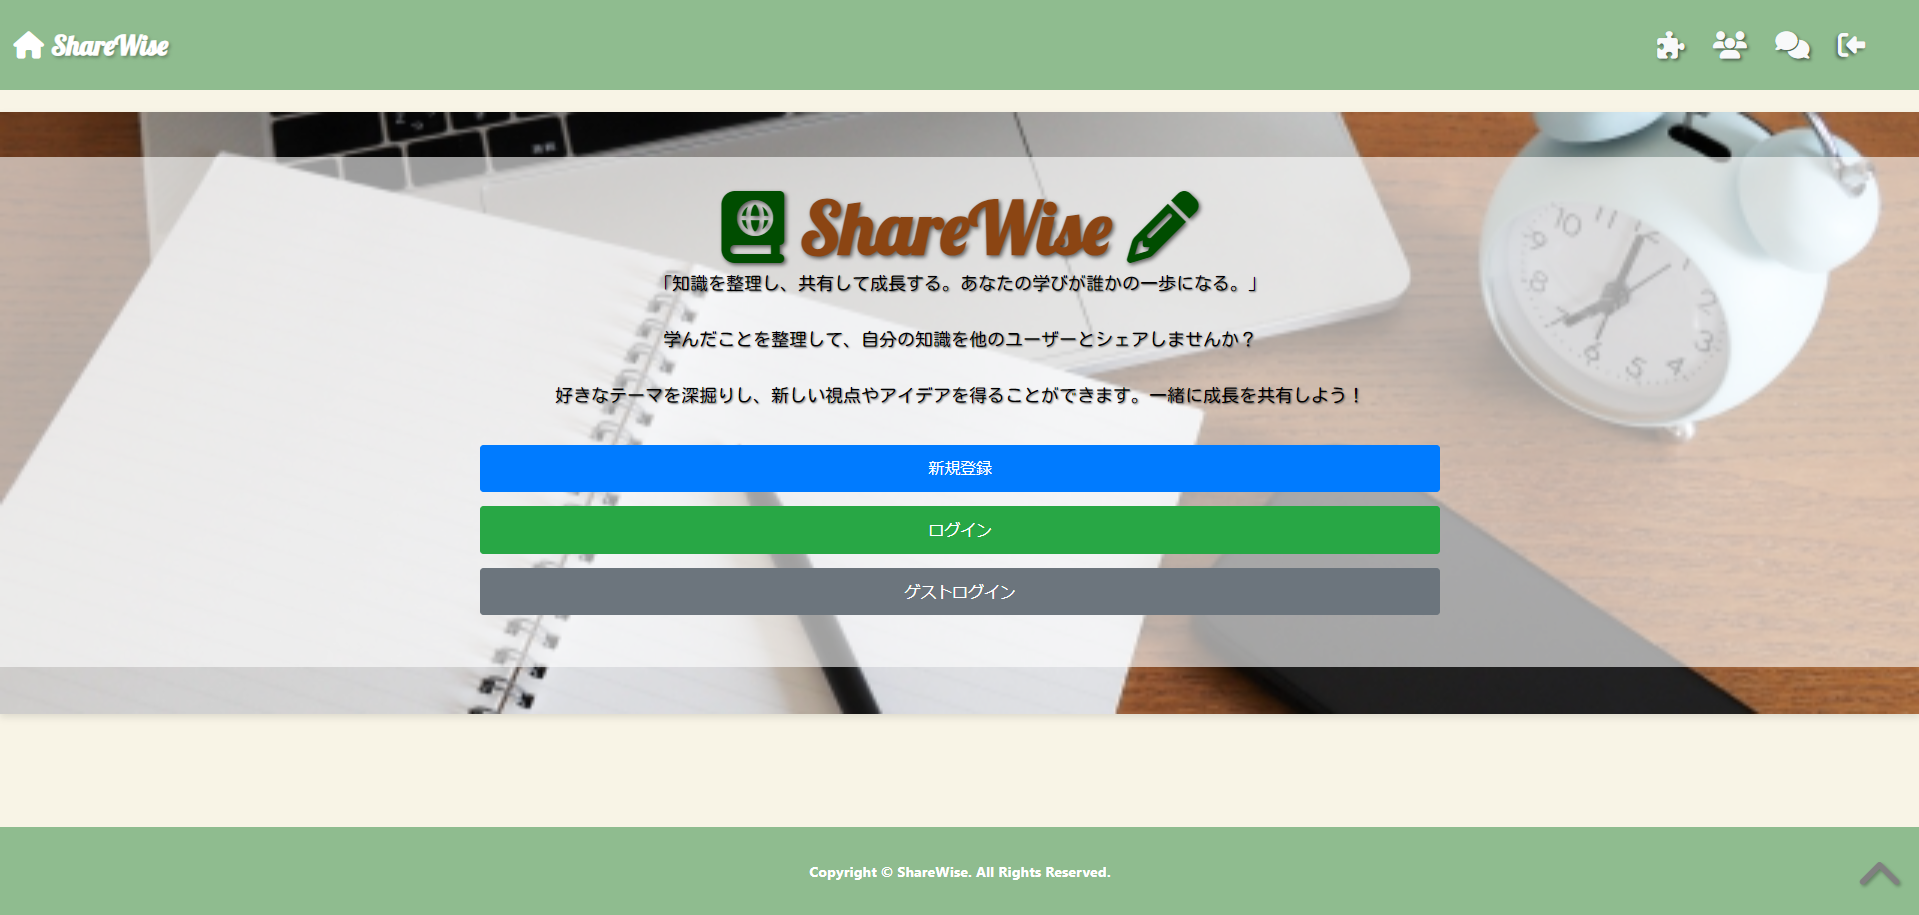
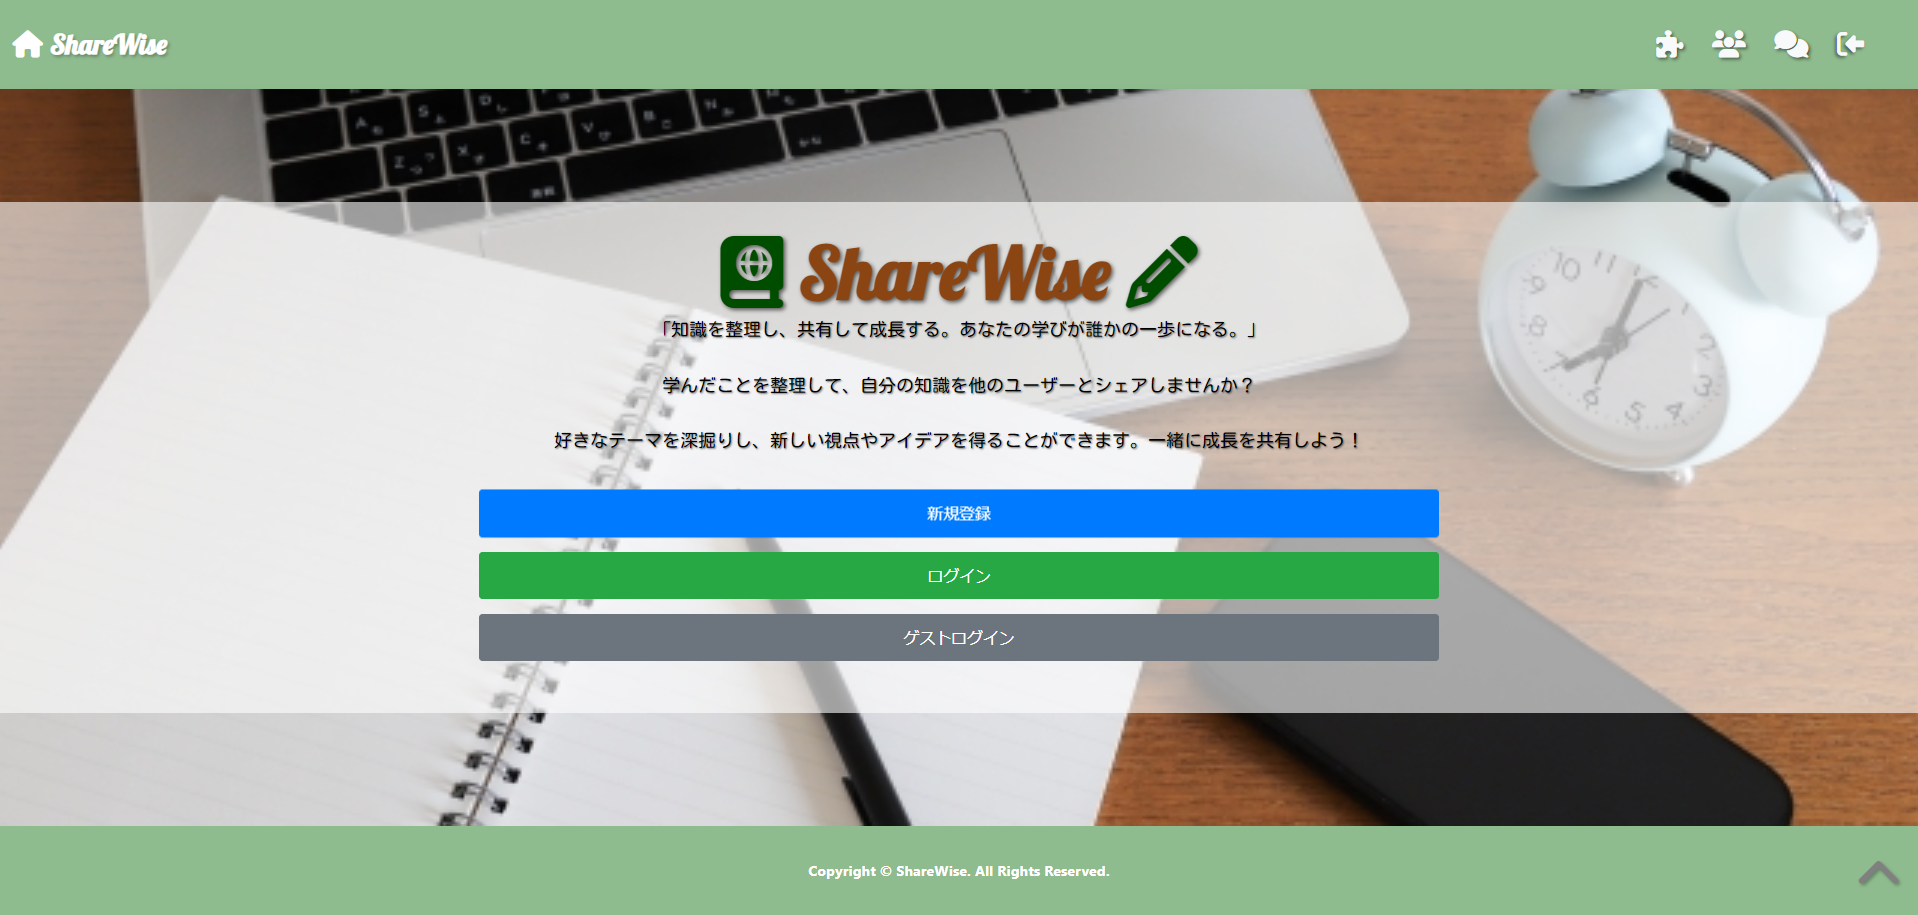
hometop[fix]

diff --git a/app/assets/stylesheets/homes.scss b/app/assets/stylesheets/homes.scss
@@ -1,14 +1,12 @@
 /* app/assets/stylesheets/public/home.scss */
-.fa-book-atlas {
-  color: #004d00;
-}
-
-.fa-pencil {
+.fa-book-atlas, .fa-pencil {
   color: #004d00;
 }
 
 .home-buttons .btn {
   transition: transform 0.3s ease, box-shadow 0.3s ease;
+  font-size: 1.1rem;
+  padding: 0.75rem 1.5rem;
 }
 
 .home-buttons .btn:hover {
@@ -16,86 +14,43 @@
   box-shadow: 0px 4px 8px rgba(0, 0, 0, 0.8); /* 浮かせた感じのシャドウ */
 }
 
-.home-container {
-  height: 669px;
-  background-image: url('home-top.jpg'); /* 背景画像を指定 */
-  background-size: cover; /* 画面全体に画像をフィットさせる */
-  background-position: center; /* 画像を中央に配置 */
-  background-repeat: no-repeat; /* 画像が繰り返されないようにする */
-  min-height: 440px; /* コンテナの最小高さを画面の高さに設定 */
-  padding: 50px 0px 50px 0px;
+.home-container, .admin-home-container {
+  flex-grow: 1;
+  background-image: url('home-top.jpg');
+  background-size: cover;
+  background-position: center;
+  background-repeat: no-repeat;
   box-shadow: 0 4px 8px rgba(0, 0, 0, 0.1);
+}
 
-  .home-text-box {
-    height: 567px;
-    padding-top: 30px;
-    background-color: rgba(255, 255, 255, 0.6);
-    width: 100%;
-    // border-radius: 20px;
-  }
-
-  .site-title {
-    width: 600px;
-    font-size: 5rem; /* サイト名のフォントサイズを大きく設定 */
-    color: #8B4513;
-    font-weight: bold; /* フォントを太くする */
-    text-shadow: 2px 2px 5px rgba(0, 0, 0, 0.6); /* タイトルにシャドウ */
-  }
-
-  .site-description {
-    font-family: 'Kosugi Maru', cursive;
-    font-size: 1.25rem;
-    color: black;
-    margin-bottom: 2rem;
-    text-shadow: 1px 1px 2px rgba(0, 0, 0, 0.5);
-  }
-
-  .home-buttons .btn {
-    font-size: 1.1rem;
-    padding: 0.75rem 1.5rem;
-  }
+.home-container {
+  min-height: calc(100vh - 200px);
 }
 
 .admin-home-container {
-  height: 669px;
-  background-image: url('home-top.jpg'); /* 背景画像を指定 */
-  background-size: cover; /* 画面全体に画像をフィットさせる */
-  background-position: center; /* 画像を中央に配置 */
-  background-repeat: no-repeat; /* 画像が繰り返されないようにする */
+  min-height: calc(100vh - 200px);
   background-color: #f8f9fa;
-  box-shadow: 0 4px 8px rgba(0, 0, 0, 0.1);
-  min-height: 440px;
-  padding: 50px 0px 50px 0px;
-  box-shadow: 0 4px 8px rgba(0, 0, 0, 0.1);
+  padding: 50px 0; /* 上下のパディングを追加 */
+}
 
-  .home-text-box {
-    padding-top: 30px;
-    height: 567px;
-    background-color: rgba(255, 255, 255, 0.6);
-    width: 100%;
-    padding: 50px 0px 50px 0px;
-  }
+.home-text-box {
+  min-height: 570px;
+  background-color: rgba(255, 255, 255, 0.6);
+  width: 100%;
+  margin: auto;
+}
 
-  .site-title {
-    width: 600px;
-    // background-color: ;
-    font-size: 5rem; /* サイト名のフォントサイズを大きく設定 */
-    color: #8B4513;
-    // margin-bottom: 15px;
-    font-weight: bold; /* フォントを太くする */
-    text-shadow: 2px 2px 5px rgba(0, 0, 0, 0.6); /* タイトルにシャドウ */
-  }
+.site-title {
+  font-size: 5rem; /* サイト名のフォントサイズを大きく設定 */
+  color: #8B4513;
+  font-weight: bold; /* フォントを太くする */
+  text-shadow: 2px 2px 5px rgba(0, 0, 0, 0.6); /* タイトルにシャドウ */
+}
 
-  .site-description {
-    font-family: 'Kosugi Maru', cursive;
-    font-size: 1.25rem;
-    color: black;
-    margin-bottom: 2rem;
-    text-shadow: 1px 1px 2px rgba(0, 0, 0, 0.5);
-  }
-
-  .home-buttons .btn {
-    font-size: 1.1rem;
-    padding: 0.75rem 1.5rem;
-  }
+.site-description {
+  font-family: 'Kosugi Maru', cursive;
+  font-size: 1.25rem;
+  color: black;
+  margin-bottom: 2rem;
+  text-shadow: 1px 1px 2px rgba(0, 0, 0, 0.5);
 }

diff --git a/app/assets/stylesheets/registrations.scss b/app/assets/stylesheets/registrations.scss
@@ -1,18 +1,17 @@
-/* app/assets/stylesheets/registrations.scss */
-
 .registration-form-container {
-  margin-top: 40px;
-  background: #f7f7f7; /* 背景色を明るいグレーに設定 */
-  padding: 20px; /* 内側の余白を追加 */
-  border-radius: 10px; /* 角を丸くする */
-  box-shadow: 0 8px 16px rgba(0, 0, 0, 0.2); /* 大きめのシャドウを追加 */
+  background-image: url('home-top.jpg');
+  background-size: cover;
+  background-position: center;
+  background-repeat: no-repeat;
+  padding-top: 20px;
+  padding-bottom: 20px;
 }
 
 .card {
   border-radius: 12px;
   box-shadow: 0 6px 12px rgba(0, 0, 0, 0.15);
-  background: #ffffff; /* カードの背景色 */
-  border: 1px solid #e0e0e0; /* カードのボーダー色 */
+  background: #ffffff;
+  border: 1px solid #e0e0e0;
 }
 
 .form-label {
@@ -23,7 +22,7 @@
 .form-control, .form-control-file {
   border-radius: 6px;
   border: 1px solid #ddd;
-  padding: 12px; /* 内側の余白を調整 */
+  padding: 12px;
 }
 
 .btn-primary {
@@ -38,29 +37,27 @@
 
 .btn-primary:hover {
   background-color: #e55e50;
-  transform: scale(1.05); /* ホバー時に少し拡大 */
+  transform: scale(1.05);
 }
 
-/* フォーム内のエラー表示 */
 .error-message {
   color: #e55e50;
   font-size: 14px;
 }
 
-/* 入力フィールドのフォーカス時 */
 .form-control:focus, .form-control-file:focus {
   border-color: #ff6f61;
-  box-shadow: 0 0 0 0.2rem rgba(255, 111, 97, 0.25); /* フォーカス時にシャドウ */
+  box-shadow: 0 0 0 0.2rem rgba(255, 111, 97, 0.25);
 }
 
 .form-group-image-delete {
   display: flex;
-  align-items: center; /* チェックボックスと文字を縦方向に中央揃え */
+  align-items: center;
   margin-bottom: 20px;
 }
 
 .form-check-input {
   width: 20px;
   height: 20px;
-  margin-left: 10px; /* チェックボックスとテキストの間隔を調整 */
+  margin-left: 10px;
 }

diff --git a/app/assets/stylesheets/sessions.scss b/app/assets/stylesheets/sessions.scss
@@ -1,18 +1,19 @@
-/* app/assets/stylesheets/sessions.scss */
 
 .session-form-container {
-  margin-top: 40px;
-  background: #f7f7f7; /* 背景色を明るいグレーに設定 */
-  padding: 20px; /* 内側の余白を追加 */
-  border-radius: 10px; /* 角を丸くする */
-  box-shadow: 0 8px 16px rgba(0, 0, 0, 0.2); /* 大きめのシャドウを追加 */
+  background-image: url('home-top.jpg');
+  background-size: cover;
+  background-position: center;
+  background-repeat: no-repeat;
+  padding-top: 20px;
+  padding-bottom: 20px;
+  min-height: calc(100vh - 200px);
 }
 
 .card {
   border-radius: 12px;
   box-shadow: 0 6px 12px rgba(0, 0, 0, 0.15);
-  background: #ffffff; /* カードの背景色 */
-  border: 1px solid #e0e0e0; /* カードのボーダー色 */
+  background: #ffffff;
+  border: 1px solid #e0e0e0;
 }
 
 .field {

diff --git a/app/assets/stylesheets/custom.scss b/app/assets/stylesheets/custom.scss
@@ -1,5 +1,5 @@
 html, body {
-  height: 100%; /* 必ず全体の高さを指定 */
+  height: 100%;
   margin: 0;
   padding: 0;
 }
@@ -77,7 +77,7 @@ body {
 
 .custom-header {
   background-color: #8FBC8F;
-  height: 100px;
+  min-height: 100px;
   display: flex;
   align-items: center;
   flex-wrap: wrap;
@@ -129,6 +129,8 @@ body {
 }
 
 .public-background {
+  padding-top: 40px;
+  padding-bottom: 40px;
   background-color: #eef4fb ;
 }
 

diff --git a/app/assets/stylesheets/public/homes.scss b/app/assets/stylesheets/public/homes.scss
@@ -201,7 +201,7 @@ td {
   font-family: 'Kosugi Maru', cursive;
   font-weight: bold;
   text-shadow: 2px 2px 4px rgba(0, 0, 0, 0.5);
-  box-shadow: 2px 2px 4px rgba(0, 0, 0, 0.5);
+  box-shadow: 2px 2px 4px rgba(0, 0, 0, 0.8);
 }
 
 .site-theme {
